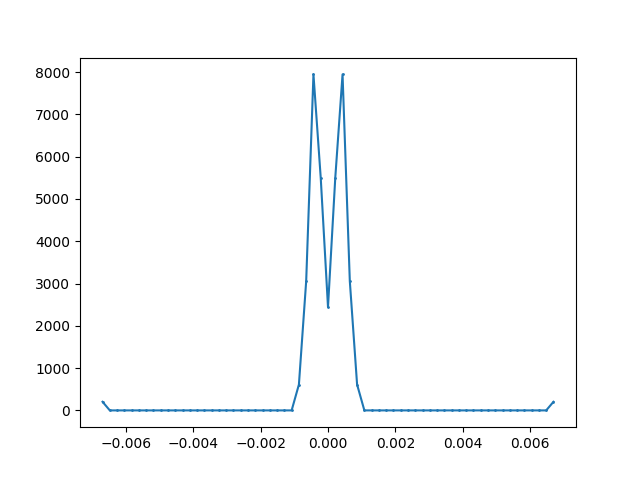
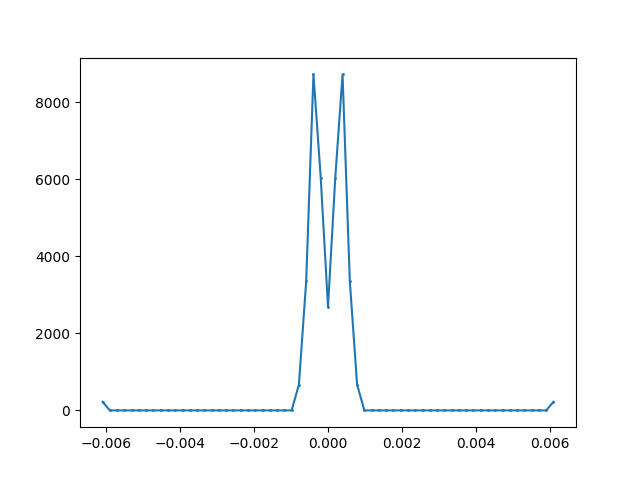
Print statements to check the parameters in the overleaf

diff --git a/Mods/Bubble_ep.py b/Mods/Bubble_ep.py
@@ -695,8 +695,8 @@ def main() -> int:
     A1mbz=lq.VolMBZ*((q**2)/(a_graphene**2))
     AWZ_graphene=np.sqrt(3)*a_graphene*a_graphene/2
     A1bz=(2*np.pi)**2 / AWZ_graphene
-    alpha_ep_effective=np.sqrt(A1mbz/A1bz)*alpha_ep
-    beta_ep_effective=np.sqrt(A1mbz/A1bz)*beta_ep
+    alpha_ep_effective=np.sqrt(1/2)*np.sqrt(A1mbz/A1bz)*alpha_ep
+    beta_ep_effective=np.sqrt(1/2)*np.sqrt(A1mbz/A1bz)*beta_ep
     alpha_ep_effective_tilde=alpha_ep_effective/beta_ep_effective
     beta_ep_effective_tilde=beta_ep_effective/beta_ep_effective
     
@@ -705,7 +705,11 @@ def main() -> int:
     Wupsilon=(beta_ep_effective**2)*qq*qq
     W=0.008
     ctilde=W*(qq**2)*(mass)*(c_phonon**2)/Wupsilon
-    # print("phonon params", Wupsilon, ctilde, ctilde/W )
+    print("phonon params", Wupsilon )
+    print("phonon params upsilon", Wupsilon/W )
+    print("area ratio", A1mbz/A1bz, (2*np.sin(theta/2))**2   )
+    print("correct factor by which the interaction is reduced",np.sqrt(2)/(2*np.sin(theta/2)))
+    print("c tilde",np.sqrt((Wupsilon/W)*(1/(qq**2))*(1/mass) ))
     
     # #parameters to be passed to the Bubble class
     # mode_layer_symmetry="a" #whether we are looking at the symmetric or the antisymmetric mode

diff --git a/Mods/Hamiltonian.py b/Mods/Hamiltonian.py
@@ -1493,14 +1493,14 @@ def main() -> int:
 
 
     #kosh params realistic  -- this is the closest to the actual Band Struct used in the paper
-    # hbvf = 2.1354; # eV
-    # hvkd=hbvf*q
-    # kappa_p=0.0797/0.0975
-    # kappa=kappa_p
-    # up = 0.0975; # eV
-    # u = kappa*up; # eV
-    # alpha=up/hvkd
-    # alph=alpha
+    hbvf = 2.1354; # eV
+    hvkd=hbvf*q
+    kappa_p=0.0797/0.0975
+    kappa=1#kappa_p
+    up = 0.0975; # eV
+    u = kappa*up; # eV
+    alpha=up/hvkd
+    alph=alpha
     PH=True
     
 
@@ -1514,13 +1514,13 @@ def main() -> int:
     # alph=alpha
 
     #Andrei params 
-    hbvf = 19.81/(8*np.pi/3); # eV
-    hvkd=hbvf*q
-    kappa=1
-    up = 0.110; # eV
-    u = kappa*up; # eV
-    alpha=up/hvkd
-    alph=alpha
+    # hbvf = 19.81/(8*np.pi/3); # eV
+    # hvkd=hbvf*q
+    # kappa=1
+    # up = 0.110; # eV
+    # u = kappa*up; # eV
+    # alpha=up/hvkd
+    # alph=alpha
     
     print("hbvf is ..",hbvf )
     print("q is...", q)
